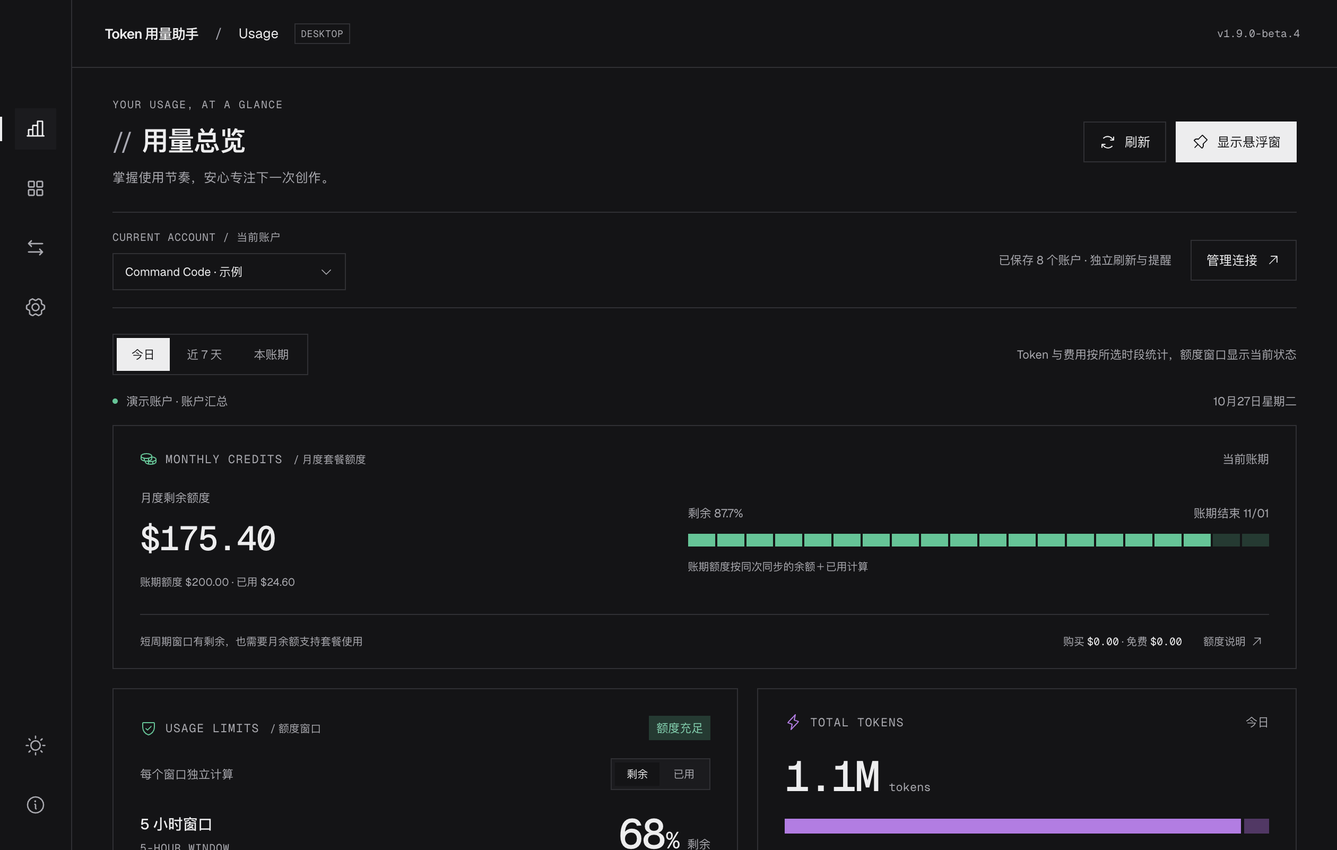
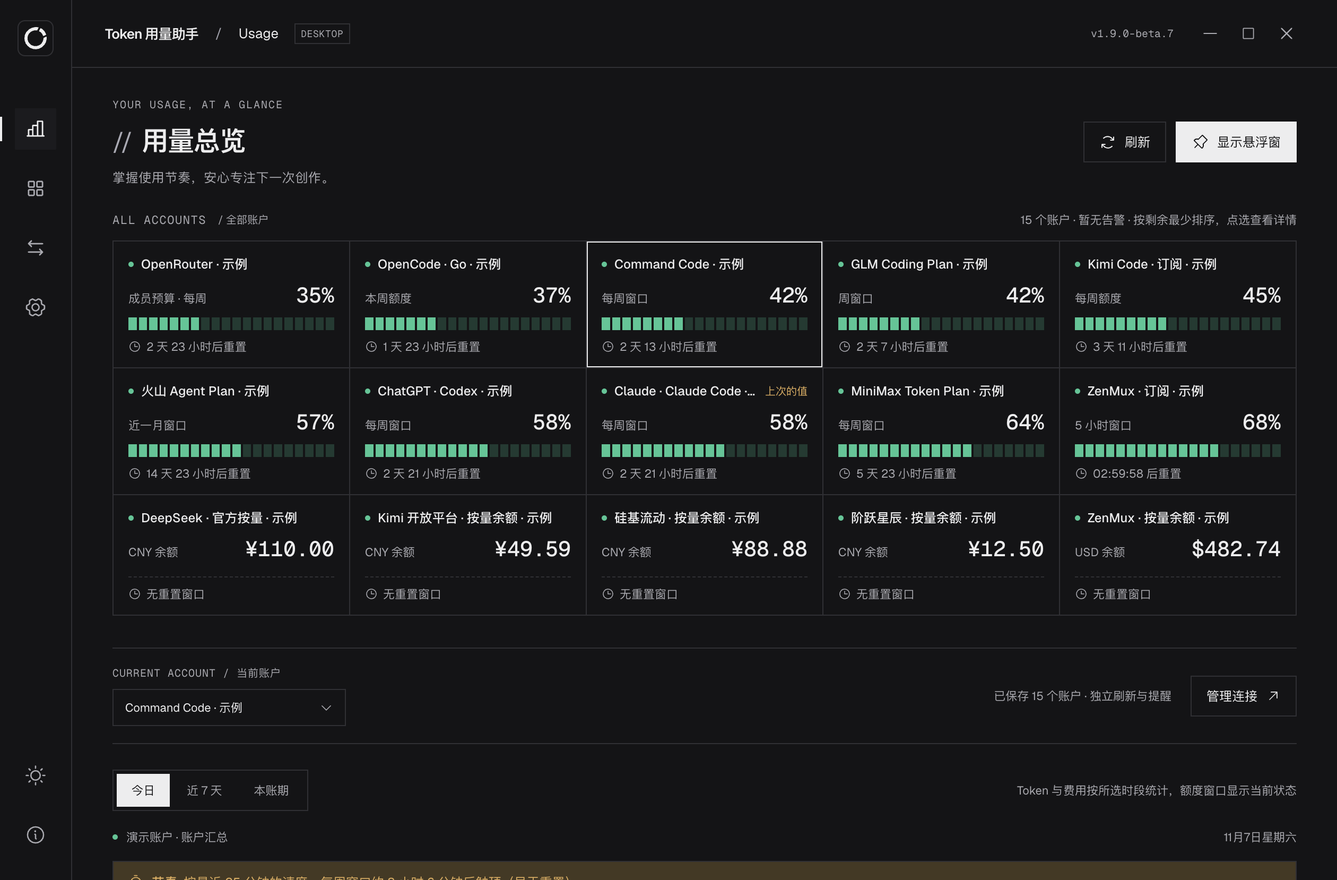
docs(T15.4): Windows-first README, fresh sample-data screenshots

diff --git a/README.en.md b/README.en.md
@@ -2,16 +2,14 @@
 
 [中文](README.md) · **English**
 
-**A small local desktop app that shows, side by side, how much quota you have left on AI coding platforms and how many tokens your local coding tools actually used.** For Windows x64 and Apple Silicon macOS. Credentials stay on your machine, encrypted; no server, no telemetry, no model calls. Not an official client of any platform.
-
-> **English interface:** every page, notifications, the tray and menus follow your system language (or Settings → Language); a few raw messages from platforms or tools may still be Chinese. It ships with the next release. This README, the [install guide](docs/INSTALL.md#english) and the [privacy notes](docs/PRIVACY.md#english) are available in English.
+**Watch the quota and balance of several AI coding platforms at once from the Windows tray, and know where every number comes from.** When you juggle several coding plans and pay-as-you-go keys, there is no need to open each console: which account is running out, when it resets, and how many tokens your local tools really used, all on one screen. Windows first; Apple Silicon Macs work too. Credentials stay on your machine, encrypted; no server, no telemetry, no model calls. Not an official client of any platform.
 
 <picture>
   <source media="(prefers-color-scheme: dark)" srcset="docs/readme/overview-dark.png">
-  <img src="docs/readme/overview-light.png" alt="Usage overview: monthly plan credits, 5-hour quota window, tokens today (sample data)" width="900">
+  <img src="docs/readme/overview-light.png" alt="Usage overview: all accounts sorted by least remaining, with quota windows, reset times and balances (sample data)" width="900">
 </picture>
 
-<sub>The screenshot uses the app's built-in sample data, not a real account.</sub>
+<sub>Screenshots use the app's built-in sample data, not a real account, and show the Chinese interface.</sub>
 
 **[Download](https://github.com/junjunup/TokenUsageAssistant/releases)**: Windows Setup / Portable, macOS DMG / ZIP, with SHA256 checksums. Installing and first launch: see [Install and upgrade](docs/INSTALL.md#english).
 
@@ -19,10 +17,23 @@ Current version: **1.9.0-beta.7** (beta, not signed or notarized). History: [CHA
 
 ## What it does
 
-- **Platform quota and balance**: what is left in each 5-hour / weekly / monthly window and when it resets; the balance of pay-as-you-go platforms (with optional reminder amounts, set separately for CNY and USD); optionally the official service status of Anthropic, OpenAI, Moonshot and MiniMax. Up to 20 accounts, each refreshed and alerted on its own.
+- **Every account on one screen**: the overview starts with one card per account, sorted by least remaining: what is left in each 5-hour / weekly / monthly window and when it resets, plus the balance of pay-as-you-go platforms (with optional reminder amounts, set separately for CNY and USD). Up to 20 accounts, each refreshed and alerted on its own; optionally the official service status of Anthropic, OpenAI, Moonshot and MiniMax.
+- **A glance without opening a window**: the Windows tray ring shows what the tightest account has left, turning amber when low and red when used up; hover to list each account's tightest value, left-click for the panel. macOS has a menu bar icon with the same panel; both have an always-on-top floating window and light and dark themes.
 - **Local tool usage**: tokens, requests, models and projects for Codex, Claude Code, Gemini CLI, Kimi Code CLI, Qwen Code, Cline, Kilo Code, Goose, Crush, Zcode, OpenCode and DeepSeek Harness; optional cost estimates from prices you enter (USD and CNY kept apart); records can be exported as CSV, and an optional `tua-status` command prints every account's quota as JSON or text.
-- **At a glance**: macOS menu bar icon and panel, Windows tray, an always-on-top floating window; light and dark themes.
+- **Interface language**: Chinese and English (every page, system notifications, the tray and menus, and dialogs; a few raw messages from platforms or tools may still be Chinese). It follows your system language; you can switch it in Settings.
+- **Easy updates**: the installed Windows build updates from "Check for updates" with two clicks (download and install, then restart and install) and never downloads or installs by itself; the portable and Mac builds only tell you about a new version.
 - **Honest numbers**: missing data shows "—", never 0; platform quotas and local usage are never added together; no comparison when coverage is incomplete.
+
+<picture>
+  <source media="(prefers-color-scheme: dark)" srcset="docs/readme/panel-dark.png">
+  <img src="docs/readme/panel-light.png" alt="Tray / menu bar panel: the current account's quota windows, a pace warning and what other accounts have left (sample data; the screenshot shows the Chinese interface)" width="320">
+</picture>
+
+## Before you start
+
+- **You enter a key for each account yourself.** The app does not read browser cookies, or login tokens and keychain items saved by other apps. That is one more step than tools that pick up your login automatically, and in exchange it never touches those things. It also means account quotas that can only be read with cookies or another app's token (for example Cursor and GitHub Copilot) are not supported.
+- **The installers are not code-signed.** Your system may say it cannot verify the publisher; check the files against `SHA256SUMS.txt` on the release page, see [Code signing](docs/CODE-SIGNING.md#english).
+- **Most platforms have not been reconciled against a real account yet.** The table below states the verification level of each one; costs are estimates from your prices, not bills.
 
 ## Supported platforms and tools
 
@@ -36,12 +47,12 @@ Verification levels: **Live-tested** = verified read-only against a real account
 | Platform quota | Volcengine personal Agent Plan (Beijing) | Official AFP quota API | Sample-tested |
 | Platform quota | OpenCode Go | Official usage API (percentages for three periods) | Sample-tested |
 | Platform quota | Kimi Code subscription (China / international) | **Unofficial endpoint** (Kimi publishes no documentation; 5-hour, weekly and monthly percentages) | Sample-tested (samples from third-party tools) |
-| Plan quota | ZenMux subscription | Official management API (5-hour and 7-day usage; needs a Management API Key) | Sample-tested |
+| Platform quota | ZenMux subscription | Official management API (5-hour and 7-day usage; needs a Management API Key) | Sample-tested |
 | Balance | DeepSeek | Official balance API | Sample-tested |
 | Balance | Kimi open platform (China / international) | Official balance API | Sample-tested |
-| Pay-as-you-go balance | SiliconFlow (China / international) | Official user info API (granted and topped-up parts read from the official example) | Sample-tested |
-| Pay-as-you-go balance | StepFun (China) | Official account API (available balance; Step Plan quota has no query API) | Sample-tested |
-| Pay-as-you-go balance | ZenMux | Official management API (USD balance; needs a Management API Key) | Sample-tested |
+| Balance | SiliconFlow (China / international) | Official user info API (granted and topped-up parts read from the official example) | Sample-tested |
+| Balance | StepFun (China) | Official account API (available balance; Step Plan quota has no query API) | Sample-tested |
+| Balance | ZenMux | Official management API (USD balance; needs a Management API Key) | Sample-tested |
 | Key limit and spend | OpenRouter | Official key API (this key's limit, budgets, reported spend) | Sample-tested |
 | Subscription quota | ChatGPT · Codex | Read-only methods of the local official Codex program | Live-tested (Windows, read-only query of a Pro account) |
 | Subscription quota | Claude · Claude Code | Status line + local OTLP component | Live-tested (macOS, quota and usage sync; not reconciled with the website) |
@@ -63,7 +74,7 @@ Missing a platform you use? [Open an issue](https://github.com/junjunup/token-us
 
 ## Privacy
 
-- Only fixed, official **read-only** APIs are called. Conversation text, prompts, replies, tool content and credentials are never read or exported; third-party databases are opened read-only.
+- Only fixed **read-only** APIs are called (the Kimi Code subscription quota uses an unofficial API, labelled in the app; the optional provider status pages are off by default). Conversation text, prompts, replies, tool content and credentials are never read or exported; third-party databases are opened read-only.
 - You enter credentials in the app yourself; they are encrypted with the system's facilities (Windows DPAPI, macOS Keychain).
 - No server and no telemetry. Diagnostics are exported only when you ask, contain no content or credentials, and are previewed before saving.
 
@@ -78,9 +89,9 @@ Full steps, upgrades, checking downloads and FAQ: **[Install and upgrade](docs/I
 
 ## Using it
 
-1. Add platform accounts under 「账户与设置」 (Accounts & settings). Enter credentials only in the app, never in a chat.
-2. Connect local coding tools under 「工具数据源」 (Tool sources).
-3. Filter by time, model, project and session under 「用量分析」 (Usage analysis); model prices can be set in USD or CNY.
+1. On first launch a guide helps you connect your first account; add more under Accounts & settings. Enter credentials only in the app, never in a chat.
+2. Connect local coding tools under Tool sources; when a tool is in its default location the app points it out and you confirm before it is added.
+3. Filter by time, model, project and session under Usage analysis; model prices can be set in USD or CNY.
 4. Closing the main window keeps the app in the menu bar / tray; it refreshes every 60 seconds by default.
 
 ## How numbers are counted
@@ -100,7 +111,7 @@ Node 24.x, pnpm 11.19.0, Electron 44.9.3 (locked in `pnpm-lock.yaml`).
 ```bash
 pnpm install
 pnpm run dev               # browser preview (sample data)
-pnpm run test:desktop      # desktop and analytics tests (baseline: 390 pass / 0 fail / 6 skipped locally; 396 / 0 / 0 in CI with Harness runtimes)
+pnpm run test:desktop      # desktop and analytics tests (baseline: 486 pass / 0 fail / 6 skipped locally; 492 / 0 / 0 in CI with Harness runtimes)
 pnpm run lint              # ESLint
 pnpm run typecheck         # strict type check of the pure domain modules (required in CI)
 pnpm run format:check      # Prettier (pnpm run format to fix)
@@ -113,6 +124,19 @@ pnpm run build             # build dist/client (required after UI changes)
 - **Generated files**: `src/generated/` is produced by `scripts/prepare-analytics-preview.mjs`; edit the matching pure module under `desktop/` instead.
 - **Harness tests** need the official test runtimes installed in isolation as described in the [plugin README](integrations/deepseek-harness/README.md); without them those tests are skipped, and skipped is not passed.
 - Contributing: [CONTRIBUTING.md](CONTRIBUTING.md#english).
+
+## Documents
+
+| Document | Content |
+|---|---|
+| [docs/INSTALL.md](docs/INSTALL.md#english) | Install, upgrade, checking downloads, FAQ |
+| [docs/PRIVACY.md](docs/PRIVACY.md#english) | Privacy notes |
+| [AGENTS.md](AGENTS.md) | Long-term project rules (Chinese) |
+| [IMPROVEMENT_PLAN.md](IMPROVEMENT_PLAN.md) | Current plan, decisions, execution records (Chinese) |
+| [PROJECT_HANDOFF.md](PROJECT_HANDOFF.md) | Current status snapshot (Chinese) |
+| [CHANGELOG.md](CHANGELOG.md) | Version history (Chinese) |
+| [docs/research/](docs/research/) | Research: upstream tool contracts, platform candidates |
+| [docs/history/](docs/history/) | Archived older documents |
 
 ## License and notices
 

diff --git a/PROJECT_HANDOFF.md b/PROJECT_HANDOFF.md
@@ -100,7 +100,7 @@
 - **在 DeepSeek Harness 里安装用量导出插件 1.5.0**（T8.13 完成后，可选）：插件已放在 `~/.token-usage-assistant/harness-plugin`。退出 DeepSeek Harness 后在终端运行 `npx --yes @deepseek-ai/dsh@0.2.1-rc.2 plugin --profile desktop add "$HOME/.token-usage-assistant/harness-plugin"`，重新打开 Harness；再在助手「账户与设置 → 工具数据源」添加 DeepSeek Harness，选 `~/.token-usage-assistant/harness/usage.jsonl`。只统计安装之后的用量，不补历史。
 - **真机验收剩余项**（2026-10-25 Claude 已代测能做的部分，见验收清单第 13、16、17 项）：切换「系统设置 → 外观」看图标变化；用尽时的红色；录屏、会议共享、锁屏、快速切换用户；外接屏、多桌面、全屏应用中点图标；锁屏暂停与恢复（T4.4、T8.3）。
 - **阶段 11 已确认（2026-10-31）**：你确认了 T11.1–T11.3 的实现截图（21 张）、T11.4 的草图（12 张）和首发帖草稿 `work/t11/launch-posts.md`（不入库），T11.4 已据此实现（实现截图 `docs/design/T11.4-onboarding/impl-*.png` 共 12 张，与草图的差异见执行记录，下个节点一并确认）。T11.5 已于 2026-11-01 在你的真实账户上复测（`/Applications` 里现在是测试包 1.9.0-beta.6-dev.383a361）：隐藏时 CPU 约 1.5% → 0.08%，6 分钟时内存约 483 → 451 MB，见 [性能基线第 4 节](docs/perf-baseline.md)。
-- **阶段 15「首发」需要你做的（D22）**：① 在日常用的 Mac 和 Windows 上装 [1.9.0-beta.7](https://github.com/junjunup/TokenUsageAssistant/releases/tag/v1.9.0-beta.7)（1.9.0 门槛的「日常使用一周」从装上算，最早 11-12；这台 Mac 的「应用程序」里还是 1.9.0-beta.6-dev.383a361）；② 在 Windows 电脑上按 [Windows 真机验收清单](docs/WINDOWS-ACCEPTANCE-CHECKLIST.md)（已补到 22 项）验收，第 4、16 项等 1.9.0 发布后再做；③ 告诉执行模型这台 Mac 上有哪些真实账户、常用哪些工具（T15.2 核对用）；④ 为 README 截 Windows 实机截图（示例数据，T15.4）；⑤ 发版后在 linux.do、V2EX 发首发帖（执行模型写草稿）；首发之后申请 SignPath 免费开源签名。
+- **阶段 15「首发」需要你做的（D22）**：① 在日常用的 Mac 和 Windows 上装 [1.9.0-beta.7](https://github.com/junjunup/TokenUsageAssistant/releases/tag/v1.9.0-beta.7)（1.9.0 门槛的「日常使用一周」从装上算；这台 Mac 2026-11-06 已装好，最早 11-13 满一周，Windows 还要你装）；② 在 Windows 电脑上按 [Windows 真机验收清单](docs/WINDOWS-ACCEPTANCE-CHECKLIST.md)（已补到 22 项）验收，第 4、16 项等 1.9.0 发布后再做；③ Command Code 账户返回 401，Key 可能失效了，要用的话在应用里重填；T15.2 核对放到后面时，再告诉执行模型有哪些真实账户、常用哪些工具；④ 为 README 截一张 Windows 实机截图：只截任务栏托盘区域的刻度环（图标不画数字，不含账户信息），不要带悬停提示和面板，避免真实账户数据进仓库（T15.4）；总览和面板用示例数据的图，已经有了；⑤ 发版后在 linux.do、V2EX 发首发帖（执行模型写草稿）；首发之后申请 SignPath 免费开源签名。
 - **阶段 13 需要你在真机上点一下的**（可选，不影响继续开发）：开发版里 Claude 账户的「账户连接 → 接入所有会话」，确认后开一个 Claude Code 会话看额度是否采集（会改你的 `~/.claude/settings.json`，可一键还原）；有 Cline / Goose / Crush / Kilo Code、硅基流动 / 阶跃星辰 / ZenMux 账户的话，添加后看数字是否和官方控制台一致；导出一份 CSV 用 Excel 打开看看。
 - **试用 1.9.0-beta.7**（可选）：Windows 上从 beta.6 升级要手动下载安装一次（beta.6 没有自动更新）；之后的版本可以在「检查更新」里点「下载并安装」。Mac 覆盖安装后可能弹一次钥匙串授权。英文界面可在「账户与设置 → 语言 · Language」切换试看。
 - **`PUBLIC_RELEASE_TOKEN` 于 2027-01-13 到期**：到期前重新生成并设置。
@@ -113,7 +113,7 @@
 - **阶段 12 已全部完成（T12.1–T12.8，2026-11-03）**，都只在 main 上、没有发版。没做真实数据核对的：Kimi Code 订阅、Gemini CLI、Kimi Code CLI、Qwen Code；Windows 上状态栏「开」的路径；Windows 自动更新的完整流程（下载、校验、安装）要等下一次发版后、从包含 T12.8 的版本升级到更新的版本时才能实际验证——1.9.0-beta.6 及更早的版本没有这个功能，要再手动升级一次。
 - **阶段 13「接得上、带得走」已全部完成（D20，2026-11-03 – 11-05）**，只在 main、未发版：T13.1 Claude 一步接入（确认后写入 `~/.claude/settings.json` 的 statusLine，可还原）、T13.2 Cline / Kilo Code / Goose / Crush 本机用量（Goose、Crush 为会话级汇总）、T13.3 硅基流动 / 阶跃星辰 / ZenMux、T13.4 导出 CSV、T13.5 命令行读取额度（`tua-status`）。证据都是 ①（合成或官方样例）+ 开发版隔离 smoke，没有真实账户 / 真实数据核对。阶段 12、13 都还没进安装包；Windows 自动更新要发版后才能用上。
 - **当前：阶段 14「补齐细节」（D21，2026-11-05 你同意大纲）**：T14.1 Claude Code 会话日志用量（不用启动脚本，与启动脚本来源按请求编号去重）→ T14.2 余额告警阈值（按金额、币种分开）→ T14.3 服务商状态页（默认关闭，先出草图）→ T14.4 英文界面。中间不发版，首发继续暂缓。T14.1 已完成（2026-11-05）：「工具数据源」可添加「Claude Code 会话日志」，不用启动脚本也有逐次回复的 Token。T14.2 已完成：PREFERENCES 里可分别设置人民币 / 美元的余额提醒金额。T14.3 已完成：可选显示 Anthropic / OpenAI / Moonshot / MiniMax 的官方服务状态（默认关闭）。T14.4 已完成：英文界面（跟随系统语言，设置里可切换；所有页面、通知、菜单与对话框都已翻译）。**阶段 14 已全部完成**。2026-11-05 升版 1.9.0-beta.7（Windows 真机验收未做，未达 1.9.0 门槛）：main 推送 CI 与 Release 试跑都已通过，已于同日发布（见第 1 节）。之后是阶段 15。
-- **当前：阶段 15「首发」（D22，2026-11-06 你选定）**：T15.1 清障（偶发失败的测试、lint 警告）→ T15.3 的 Windows 验收清单补齐（交给你，在 beta.7 上验收，与后面并行）→ T15.2 本机真实数据核对 → T15.4 README 定位改版、截图、帖子草稿 → T15.5 达到门槛就发 1.9.0（winget / Scoop 提交随同确认）→ 你发帖。内置单价表、每账户阈值暂缓到首发后看反馈；日报 / 周报不做。1.9.0 门槛的「日常使用一周」按 beta.7 计（最早 11-12），要先在日常用的电脑上装上 beta.7。 T15.1 已完成（2026-11-06）：两项偶发失败的测试按原因修好，ESLint 警告清零。T15.3 的 Windows 验收清单已补到 22 项，交给你。
+- **当前：阶段 15「首发」（D22，2026-11-06 你选定）**：T15.1 清障（偶发失败的测试、lint 警告）→ T15.3 的 Windows 验收清单补齐（交给你，在 beta.7 上验收，与后面并行）→ T15.2 本机真实数据核对 → T15.4 README 定位改版、截图、帖子草稿 → T15.5 达到门槛就发 1.9.0（winget / Scoop 提交随同确认）→ 你发帖。内置单价表、每账户阈值暂缓到首发后看反馈；日报 / 周报不做。1.9.0 门槛的「日常使用一周」按 beta.7 计（最早 11-12），要先在日常用的电脑上装上 beta.7。 T15.1 已完成（2026-11-06）：两项偶发失败的测试按原因修好，ESLint 警告清零。T15.3 的 Windows 验收清单已补到 22 项，交给你。T15.4 的 README 与帖子草稿已更新（2026-11-07），还差你的 Windows 实机截图。T15.2 你决定先放后面，发版节点再问。这台 Mac 的「应用程序」2026-11-06 已换成 1.9.0-beta.7。
 
 - 当前：阶段 11「看得全、装得上」（2026-10-29，D17：公开路线，定位「Windows 优先的中文工具，同时盯多个国内 Coding Plan 与余额账户」；D4 维持，不做 Mac 签名公证与 Homebrew；用户有 Windows 电脑；紧凑位置金额两位小数）。任务 T11.1–T11.10，顺序：T11.1 / T11.2 / T11.3 的浅色、深色草图一起交用户确认 → 等确认期间做 T11.5 测量、T11.6、T11.8 清单、T11.7 的清单文件与签名政策页 → 实现 T11.1 → T11.2 → T11.3 → T11.4 → T11.5 改动 → 用户做 T11.8 → T11.10 的 README 部分 → T11.9（达到门槛发 1.9.0，否则 1.9.0-beta.7）→ 用户发帖。
 - 上一阶段：阶段 10「更多平台」（2026-10-28，D16）：T10.1 Kimi 开放平台余额、T10.2 OpenRouter Key 用量与上限、T10.4 已完成，1.9.0-beta.6 已于 2026-10-29 发布；硅基流动（T10.3）暂不做。阶段 8、9 已全部完成；T4.2 暂不做，T7.2、增量一、增量二推迟，刘海悬停面板搁置。

diff --git a/IMPROVEMENT_PLAN.md b/IMPROVEMENT_PLAN.md
@@ -159,7 +159,7 @@
 | 15 首发 | T15.1 清障：偶发失败的测试、lint 警告 | 否 | — | D22 ② | [[x] |
 | 15 首发 | T15.2 本机真实数据核对 | 视核对结果 | — | D22 ⑤ | [ ] |
 | 15 首发 | T15.3 Windows 真机验收（清单补齐后用户亲手，承接 T11.8） | 否 | — | D17 ③、D22 ② | [ ] |
-| 15 首发 | T15.4 首发材料：README 定位改版、截图、帖子草稿（承接 T11.10） | 否 | T15.2 | D17 ①、D22 ② | [ ] |
+| 15 首发 | T15.4 首发材料：README 定位改版、截图、帖子草稿（承接 T11.10） | 否 | — | D17 ①、D22 ② | [ ] |
 | 15 首发 | T15.5 1.9.0 正式版与分发提交（承接 T11.9、T11.7 的提交） | 是 | T15.1–T15.4 | D13、D22 ④ ⑥ | [ ] |
 
 **2026-10-23 起的执行顺序（D12，用户按复盘推荐确认）**：T8.9 → T8.11 → T8.12 → T8.1 → T8.2 → T8.3 → T8.4 → T8.5 → T8.6 → T8.7 → T8.10 → T8.8（发布 1.9.0-beta.3）→ T6.1 → T6.2 / T6.3 → T8.14 → 按测量结果再定 T4.2 / T7.2。T8.13 等用户告知 Harness 版本后插入。仍然每次只做一个任务；T8.9–T8.12 不改应用行为，可以在稳固版各任务之间穿插。
@@ -178,7 +178,7 @@
 
 **2026-11-05 起的执行顺序（D21）**：T14.1 → T14.2 → T14.3（先出浅色 / 深色草图，等确认期间接着做 T14.4 的底子）→ T14.4。中间不发版；首发继续暂缓。
 
-**2026-11-06 起的执行顺序（D22）**：T15.1 → T15.3 的清单补齐（交给用户，在 beta.7 上验收，与后面并行）→ T15.2 → T15.4 → T15.5（达到门槛才发 1.9.0）→ 用户发帖。中间不发版。
+**2026-11-06 起的执行顺序（D22）**：T15.1 → T15.3 的清单补齐（交给用户，在 beta.7 上验收，与后面并行）→ T15.2 → T15.4 → T15.5（达到门槛才发 1.9.0）→ 用户发帖。中间不发版。2026-11-07 用户决定真实数据核对先放后面（「数据先不急」），先做 T15.4；T15.2 没有取消，发版节点时再问。
 
 **1.9.0 正式版门槛（D14，T9.11 之后另行确认）**：真机验收清单剩余项由用户补测完；beta.5 日常使用一周没有新问题；上游版本检查没有未处理项。达到后去掉 beta，作为对外推广的第一个正式版本。**D17 ③ 加一条**：Windows 真机验收清单（T11.8）由用户在自己的 Windows 电脑上做完并通过。
 
@@ -651,6 +651,7 @@
 | 2026-11-05 | 1.9.0-beta.7（发布） | 按用户的确认（D13 第二档）：标签 `v1.9.0-beta.7`（→ `f2e09cd`，打标签前该提交的 CI `42006219822` 已通过）；标签 CI `42017894594` 通过；Release `42017894565`（windows / mac / release 均 success，草稿附 4 个安装包、4 份报告、`latest.yml` 与 `.blockmap`）；`archive-release.cjs` 核对 4 个安装包的 SHA256 都在 CI 完整性报告里、升级验证 passed（`1.9.0-beta.6-to-1.9.0-beta.7`），报告存入 `docs/verification-1.9.0-beta.7/`、安装包存入发布产物目录；发布源码仓库草稿（prerelease）；Publish 演练 `42018716112`（发布步骤 skipped）→ 正式运行 `42018790572`（各步骤 success）；安装包仓库 README 更新为 `docs/installer-repo/README.md`（界面语言、Windows 自动更新、非官方接口） | — | ②；未做 ③ | 安装包仓库 [v1.9.0-beta.7](https://github.com/junjunup/TokenUsageAssistant/releases/tag/v1.9.0-beta.7)：draft=false、prerelease=true，7 个文件（4 个安装包、`latest.yml`、`.blockmap`、`SHA256SUMS.txt`）；4 个安装包的哈希在 GitHub 资源摘要、`SHA256SUMS.txt`、存档目录三方一致（`shasum -c` 全部 OK）。Windows 自动更新从这一版起才有，要从 beta.7 升到下一版时才能实际验证 |
 | 2026-11-06 | T15.1 | `task/T15.1-cleanup`：两项偶发失败的测试按原因修好：`tests/logger.test.cjs` 改为等日志文件写完整再读（原来固定等 60 ms，Windows CI 曾读到空文件）；`tests/harness-plugin.test.cjs` 的 `setup` 收尾先关闭导出器、等排队的状态写入完成再删目录（原来偶发 `ENOTEMPTY`），去掉删除重试。ESLint 34 个警告清零：删掉未使用的导入与变量（`unsupported` 计数从没用过，`associations.publicState` 改为删除内部字段）、脚本里的空 catch 写明原因、只对随用户安装的 Harness 插件放行空 catch（不改已发出的插件文件）、hooks 依赖改用提取出的值（触发条件不变）；`--no-ff` 合并为 `161422b` 并推送；**推送后 CI `42085262197` 两个平台通过** | 492：486 / 0 / 6；两个测试文件在 4 路并行下连跑 40 次 0 失败；ESLint 0 个错误 0 个警告；typecheck、`prettier --check`、build 通过 | ①；开发版隔离原生 smoke ok；浏览器预览里用量分析页正常加载、趋势图绘出、控制台无错误 | 不改应用行为 | — |
 | 2026-11-06 | T15.3（清单补齐） | `task/T15.3-checklist`：`docs/WINDOWS-ACCEPTANCE-CHECKLIST.md` 补到当前版本：说明改为在 1.9.0-beta.7 上验收；第 2 项加首次启动向导与跟随系统语言，第 4 项加应用内升级，第 10 项通知语言，第 11 项加新工具、Claude Code 会话日志与自动发现；新增第 16–22 项：应用内更新（1.9.0 发布后测）、英文界面、余额提醒、导出 CSV、命令行读取额度、Claude Code 接入（可选）、服务商状态（可选） | 不变（只改文档） | 不涉及（文档） | 清单交用户（D13 第三档） | 用户在 Windows 上验收；第 4、16 项等 1.9.0 |
+| 2026-11-07 | T15.4（第一部分） | `task/T15.4-launch-materials`：中英文 README 与安装包仓库 README 的定位改为 Windows 优先、同时盯多个账户；首图换成带「全部账户」的总览（示例数据，原图还是 beta.4），加托盘 / 菜单栏面板图；新增「用之前先看」（要自己填 Key、Cursor / Copilot 不支持、未签名、多数平台只有样例验证）；隐私一条更正为含非官方接口与可选状态页；英文版补语言说明与文档索引，去掉过时的「下个版本才有英文」；测试基线改到 486 / 492（含 AGENTS §9）；帖子草稿按现状重写（`work/t11/launch-posts.md`，不入库），附仓库简介与 topics 建议 | 492：486 / 0 / 6（只改文档与图片） | 不涉及（文档） | 截图 `docs/readme/overview-*.png`、`panel-*.png` | Windows 托盘区域实机截图等用户（打包版没有示例数据模式，所以只截不含账户信息的刻度环）；版本号在截图里，T15.5 升版后重拍；验证等级按当前写，T15.2 用户 2026-11-07 决定先放后面 |
 
 2026-10-23 之前的执行记录见归档快照第 6 节。
 

diff --git a/README.md b/README.md
@@ -2,11 +2,11 @@
 
 **中文** · [English](README.en.md)
 
-**一个本机桌面小工具：同时看清 AI 编程平台的剩余额度，和你本机编程工具实际用掉的 Token。** 支持 Windows x64 与 Apple Silicon macOS；凭据只保存在本机并加密，没有服务器、不收集遥测、不调用任何模型。非任何平台的官方客户端。
+**在 Windows 托盘里同时盯住多个 AI 编程平台的额度和余额，每个数字都说得清来源。** 手上开着好几个 Coding Plan 和按量 Key 时，不用再挨个开控制台：哪个账户快用完、什么时候重置、本机工具实际用了多少 Token，一屏看清。Windows 优先，Apple Silicon Mac 也能用；凭据只保存在本机并加密，没有服务器、不收集遥测、不调用任何模型。非任何平台的官方客户端。
 
 <picture>
   <source media="(prefers-color-scheme: dark)" srcset="docs/readme/overview-dark.png">
-  <img src="docs/readme/overview-light.png" alt="用量总览：月度套餐额度、5 小时额度窗口、今日 Token（示例数据）" width="900">
+  <img src="docs/readme/overview-light.png" alt="用量总览：全部账户按剩余最少排序，显示额度窗口、重置时间和按量余额（示例数据）" width="900">
 </picture>
 
 <sub>截图使用应用内置的示例数据，不是真实账户。</sub>
@@ -17,11 +17,23 @@
 
 ## 能做什么
 
-- **平台额度与余额**：5 小时 / 每周 / 月度窗口剩余多少、什么时候重置；按量平台的余额（可按人民币 / 美元分别设置提醒金额）；可选显示 Anthropic、OpenAI、Moonshot、MiniMax 的官方服务状态。多个账户（最多 20 个）各自刷新、各自提醒。
+- **一屏看全部账户**：总览顶部每个账户一格，按剩余最少排序；5 小时 / 每周 / 月度窗口剩余多少、什么时候重置，按量平台的余额（可按人民币 / 美元分别设置提醒金额），都放在一起。最多 20 个账户，各自刷新、各自提醒；可选显示 Anthropic、OpenAI、Moonshot、MiniMax 的官方服务状态。
+- **不打开窗口也能瞄一眼**：Windows 托盘的刻度环显示最紧账户的剩余，快用完变黄、用尽变红；鼠标停上去列出各账户的最紧值，左键弹出面板。Mac 有菜单栏图标和同样的面板，两边都有置顶悬浮窗和深浅色主题。
 - **本机工具用量**：Codex、Claude Code、Gemini CLI、Kimi Code CLI、Qwen Code、Cline、Kilo Code、Goose、Crush、Zcode、OpenCode、DeepSeek Harness 的 Token、请求、模型与项目分布；可按自己填的单价估算费用（USD / CNY 分开），明细可导出为 CSV；也可以开启命令行读取额度（`tua-status`，输出 JSON 或文字）。
 - **界面语言**：中文与英文（所有页面、系统通知、托盘与菜单、对话框都有英文；平台或工具返回的个别原始说明可能仍是中文），默认跟随系统，可在设置里切换。
-- **随时瞄一眼**：Mac 菜单栏图标与面板、Windows 托盘、置顶悬浮窗；深浅色主题。
+- **升级省事**：Windows 安装版在「检查更新」里点「下载并安装」「重启并安装」就能升级，不会自行下载或安装；便携版和 Mac 版只提示有新版本。
 - **说实话**：数据缺失显示「—」而不是 0；平台额度和本机用量各算各的、不相加；覆盖不全时不做对比。
+
+<picture>
+  <source media="(prefers-color-scheme: dark)" srcset="docs/readme/panel-dark.png">
+  <img src="docs/readme/panel-light.png" alt="托盘 / 菜单栏面板：当前账户的额度窗口、节奏提醒和其他账户的剩余（示例数据）" width="320">
+</picture>
+
+## 用之前先看
+
+- **每个账户要你自己填 Key。** 不读浏览器 Cookie，也不读别的应用保存的登录令牌或钥匙串。这比自动读取登录状态的工具多一步，换来的是它碰不到这些东西。也因此，只能靠 Cookie 或别的应用的令牌才能查的账户额度（例如 Cursor、GitHub Copilot）不支持。
+- **安装包没有代码签名。** 系统可能提示无法验证发布者，可以用发布页的 `SHA256SUMS.txt` 核对文件，见[代码签名说明](docs/CODE-SIGNING.md)。
+- **大部分平台还没和真实账户核对过。** 下表如实写了每一项的验证等级；费用只是按你的单价估算，不是账单。
 
 ## 支持的平台与工具
 
@@ -62,7 +74,7 @@
 
 ## 隐私
 
-- 只调用固定的官方**只读**接口；不读取、不导出对话正文、提示词、回复、工具内容或凭据；第三方数据库只读。
+- 只调用固定的**只读**接口（Kimi Code 订阅额度用的是非官方接口，界面会注明；可选的服务商状态页默认关闭）；不读取、不导出对话正文、提示词、回复、工具内容或凭据；第三方数据库只读。
 - 凭据只在应用里由你自己填写，用系统能力加密保存（Windows DPAPI、macOS 钥匙串）。
 - 没有服务器、没有遥测；诊断信息由你手动导出，里面不含任何内容和凭据。
 
@@ -77,8 +89,8 @@
 
 ## 使用要点
 
-1. 在「账户与设置」添加平台账户。凭据只在应用内填写，不要发到聊天里。
-2. 在「工具数据源」连接本机编程工具。
+1. 首次打开有向导，带你连上第一个账户；之后在「账户与设置」添加更多。凭据只在应用内填写，不要发到聊天里。
+2. 在「工具数据源」连接本机编程工具；工具在默认位置时应用会提示，由你确认后添加。
 3. 在「用量分析」按时间、模型、项目、会话筛选；模型单价可以分别按 USD / CNY 配置。
 4. 关闭主窗口后，应用继续留在菜单栏 / 托盘，默认每 60 秒刷新一次。
 
@@ -99,7 +111,7 @@
 ```bash
 pnpm install
 pnpm run dev               # 浏览器预览（示例数据）
-pnpm run test:desktop      # 桌面与分析测试（基线：本机 390 通过 / 0 失败 / 6 跳过；CI 装了 Harness 运行时，396 / 0 / 0）
+pnpm run test:desktop      # 桌面与分析测试（基线：本机 486 通过 / 0 失败 / 6 跳过；CI 装了 Harness 运行时，492 / 0 / 0）
 pnpm run lint              # ESLint
 pnpm run typecheck         # 纯领域模块的严格类型检查（CI 必跑）
 pnpm run format:check      # Prettier 检查（pnpm run format 自动格式化）

diff --git a/docs/installer-repo/README.md b/docs/installer-repo/README.md
@@ -2,11 +2,11 @@
 
 **中文** · [English](#english)
 
-**一个本机桌面小工具：同时看清 AI 编程平台的剩余额度，和你本机编程工具实际用掉的 Token。** 支持 Windows x64 与 Apple Silicon macOS；凭据只保存在本机并加密，没有服务器、不收集遥测、不调用任何模型。非任何平台的官方客户端。
+**在 Windows 托盘里同时盯住多个 AI 编程平台的额度和余额，每个数字都说得清来源。** 手上开着好几个 Coding Plan 和按量 Key 时，不用再挨个开控制台：哪个账户快用完、什么时候重置、本机工具实际用了多少 Token，一屏看清。Windows 优先，Apple Silicon Mac 也能用；凭据只保存在本机并加密，没有服务器、不收集遥测、不调用任何模型。非任何平台的官方客户端。
 
 <picture>
   <source media="(prefers-color-scheme: dark)" srcset="https://raw.githubusercontent.com/junjunup/token-usage-assistant/main/docs/readme/overview-dark.png">
-  <img src="https://raw.githubusercontent.com/junjunup/token-usage-assistant/main/docs/readme/overview-light.png" alt="用量总览：月度套餐额度、5 小时额度窗口、今日 Token（示例数据）" width="900">
+  <img src="https://raw.githubusercontent.com/junjunup/token-usage-assistant/main/docs/readme/overview-light.png" alt="用量总览：全部账户按剩余最少排序，显示额度窗口、重置时间和按量余额（示例数据）" width="900">
 </picture>
 
 <sub>截图使用应用内置的示例数据，不是真实账户。</sub>
@@ -36,7 +36,7 @@
 
 ## English
 
-**A small local desktop app that shows, side by side, how much quota you have left on AI coding platforms and how many tokens your local coding tools actually used.** For Windows x64 and Apple Silicon macOS. Credentials stay on your machine, encrypted; no server, no telemetry, no model calls. Not an official client of any platform.
+**Watch the quota and balance of several AI coding platforms at once from the Windows tray, and know where every number comes from.** When you juggle several coding plans and pay-as-you-go keys, there is no need to open each console: which account is running out, when it resets, and how many tokens your local tools really used, all on one screen. Windows first; Apple Silicon Macs work too. Credentials stay on your machine, encrypted; no server, no telemetry, no model calls. Not an official client of any platform.
 
 > **The interface follows your system language (Chinese or English); you can switch it in Settings.**
 

diff --git a/AGENTS.md b/AGENTS.md
@@ -139,6 +139,6 @@ Token 用量助手：中文本机桌面助手（Windows x64 + Apple Silicon macO
 - `--smoke-test` 必须配新建的隔离 `--test-directory`；迁移和升级验证只能指向隔离目录，不得指向真实 userData。
 - 原生 smoke 冻结（D18）：不再新增段落，只修被改动弄坏的检查；开发版运行方法：先 `pnpm run build`，再 `electron . --smoke-test --test-directory=<新建的临时目录>`，结果在该目录的 `smoke-result.json`。
 - Mac 开发版（`pnpm run desktop`）自 T3.1 起使用独立的数据目录和 Keychain 条目，可以直接用于启动验收；打包版和 smoke 仍按上一条使用隔离目录。smoke 使用模拟钥匙串（见第 5 节），不会弹钥匙串授权窗；代价是 smoke 不再测到真实钥匙串读写，这部分由真机使用覆盖。
-- 因 Harness 运行时未安装而跳过的测试要明确报告，不算通过。当前基线：本机 418 通过 / 0 失败 / 6 跳过（共 424）；CI 安装了两个已验证版本的 Harness 运行时（T8.10、T8.13），为 424 通过 / 0 失败 / 0 跳过。本机要跑这 6 项，按插件 README 安装两套运行时并设置四个环境变量。
+- 因 Harness 运行时未安装而跳过的测试要明确报告，不算通过。当前基线：本机 486 通过 / 0 失败 / 6 跳过（共 492）；CI 安装了两个已验证版本的 Harness 运行时（T8.10、T8.13），为 492 通过 / 0 失败 / 0 跳过。本机要跑这 6 项，按插件 README 安装两套运行时并设置四个环境变量。
 - `pnpm run typecheck`（T5.5 起：8 个纯领域模块的严格 JSDoc 类型检查，T7.4 / T7.6 加入 `menubar-status.cjs`、`menubar-panel.cjs`，T6.2 加入 `coverage-report.cjs`，T9.13 加入 `upstream-contracts.cjs`，T11.1 加入 `account-overview.cjs`，T11.2 加入 `panel-placement.cjs`，T11.4 加入 `onboarding.cjs`；已接入 CI）必须通过。修改这些模块时同步维护注解；可能缺失的数值写成 `number|null`，不要用 0 代替。
 - 本地服务和预览由执行模型自己启动，并在可用的浏览器中查看，不让用户手动启动。
